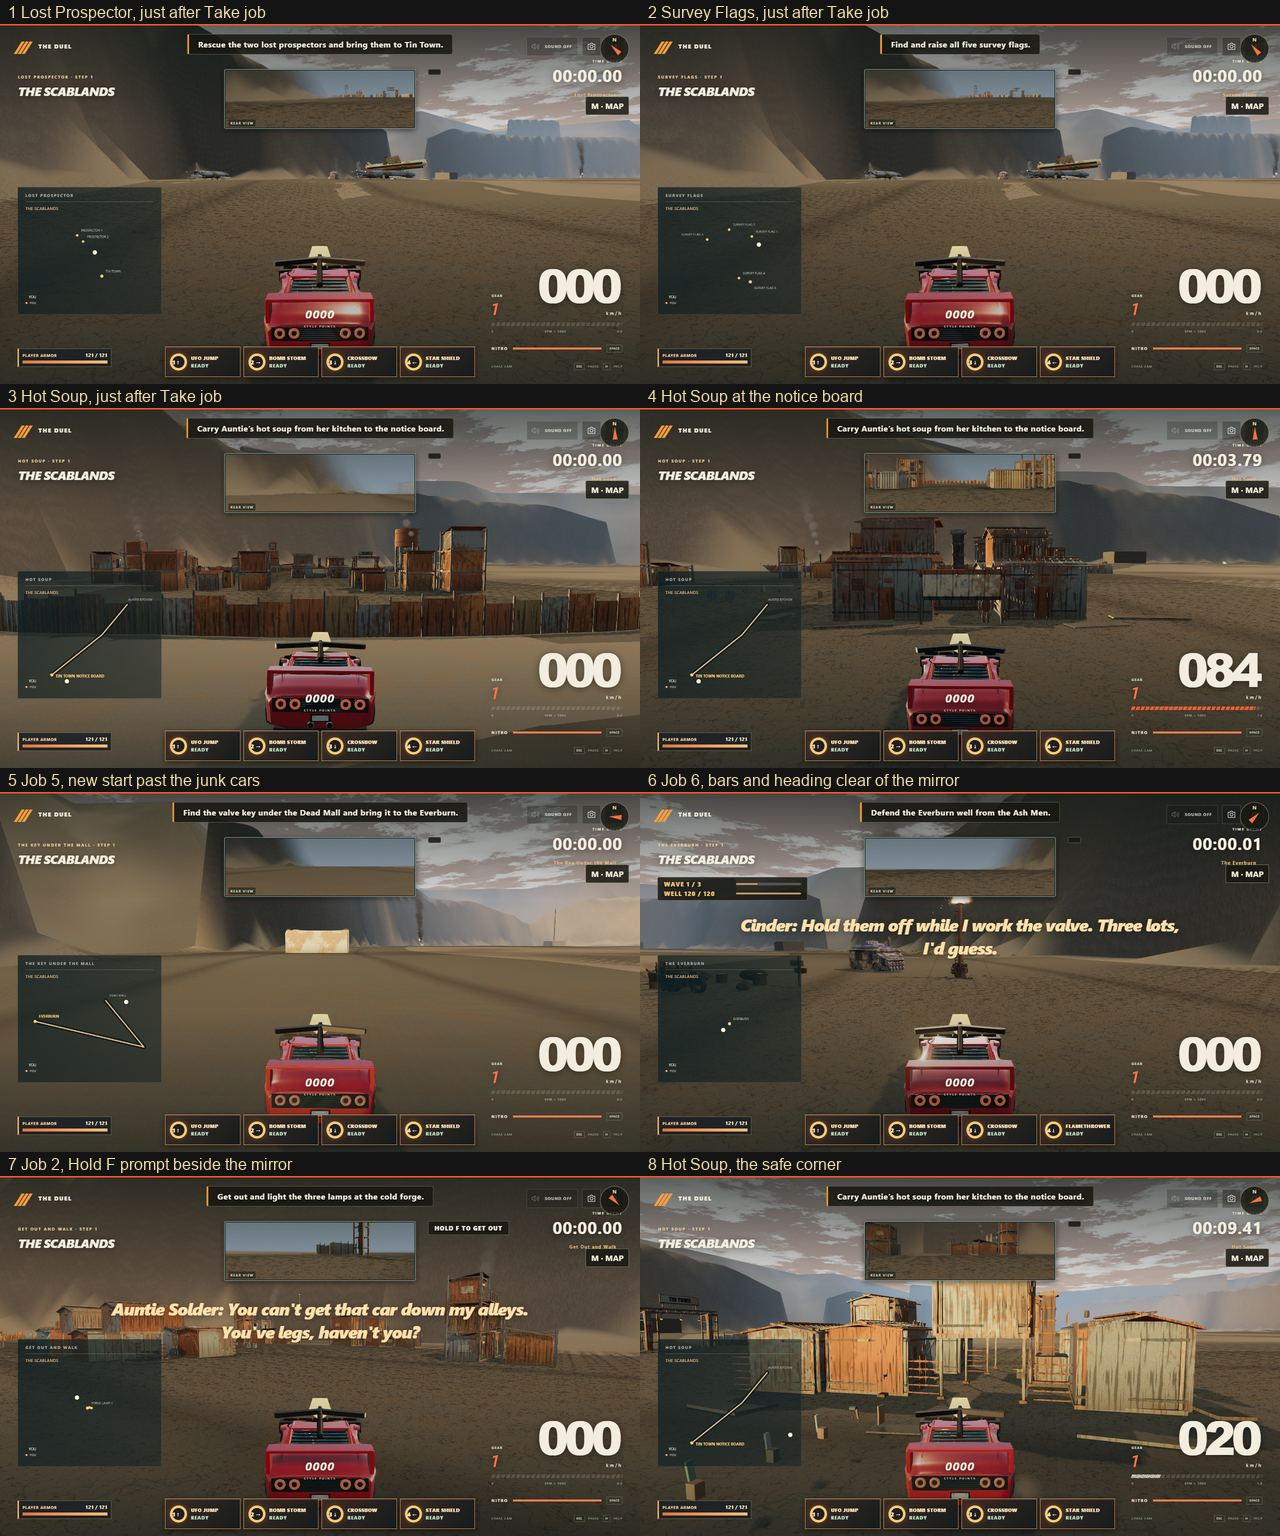
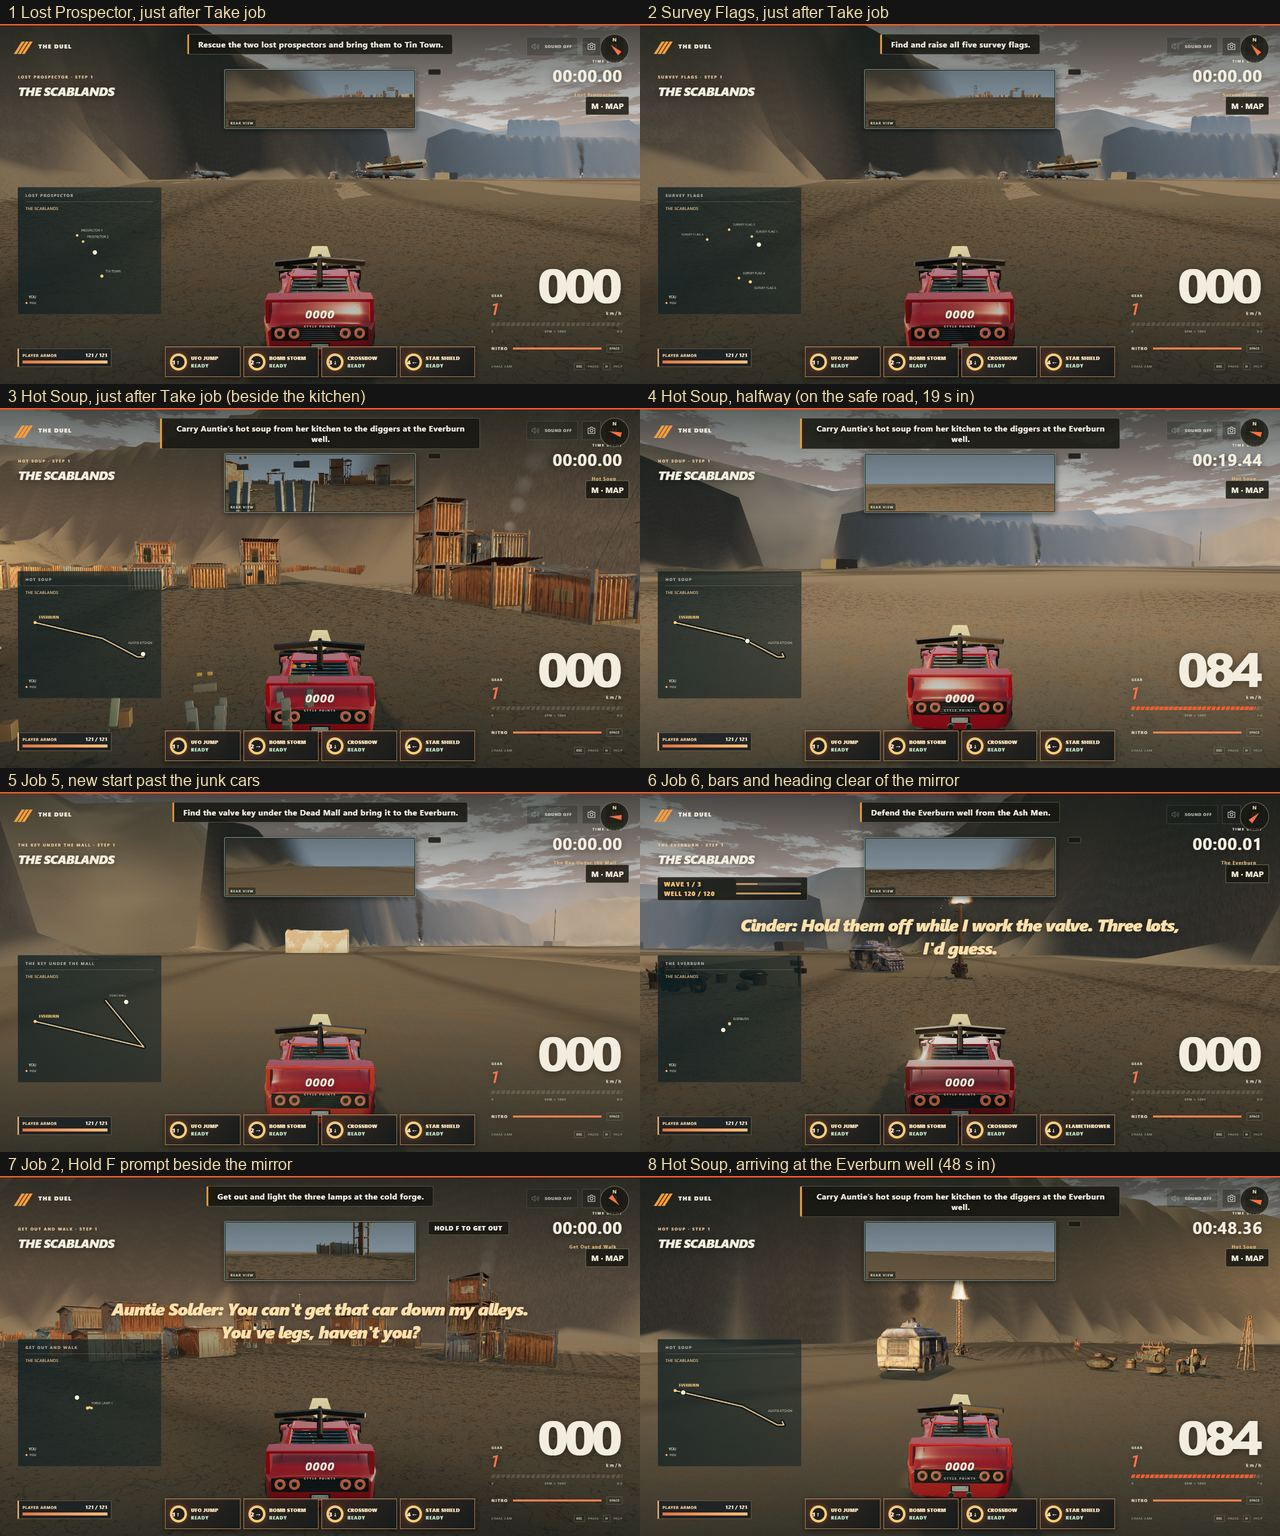
Hot Soup becomes a real delivery: Auntie's kitchen to the diggers at the Everburn well
Hot Soup took 4 seconds and paid the full amount. It now carries the soup 1,148 m
from beside the kitchen, round Tin Town's south side and by the safe road, to the
Everburn well (about 50 s). New start, safe points, objective and board note; the
maps name the road from AUNTIE KITCHEN to EVERBURN. The start check, the map test,
the easy driver (safe points for Hot Soup only) and the side-jobs scenario follow.
Round-8 sheet pictures 3, 4 and 8 and its review are replaced. Changed assertions
are listed in docs/changes/EVERBURN-PLAY-FIXES.md; replay fingerprints unchanged.

Changed region(s): [[0.0, 0.25, 1.0, 0.5], [0.5, 0.75, 1.0, 1.0]]

diff --git a/src/world/jobs/everburn.js b/src/world/jobs/everburn.js
@@ -146,12 +146,14 @@ export const EVERBURN_SIDE_JOBS = Object.freeze([
       .map(flag=>Object.freeze({...flag})), carStart:carStart(543, 192, place('survey-flag-1',450,300)), reward:'scrap'})]}),
   Object.freeze({id:'everburn-hot-soup', name:'Hot Soup', kind:'delivery',
     unlockAfter:'everburn-get-out-and-walk', easy:Object.freeze({crashLimit:10, markerRadius:8}),
-    steps:[step('carry',{what:'Carry Auntie’s hot soup from her kitchen to the notice board.', load:'hot-soup', origin:place('auntie-kitchen',615,4,4),
-      destination:place('tin-town-notice-board',600,-10,8), safePoints:path(place('town-safe-corner',610,-2,6)),
-      // The car starts on open ground 90 m south of the town, facing the notice board, which stands inside the town's own box and is reached
-      // from the south side: the straight way runs through the gap between the two southern shack clusters and stops 4.5 m short of the box.
-      carStart:carStart(603, -100, place('tin-town-notice-board',600,-10,8)),
-      radius:8, crashLimit:10, spillLineId:'story.ember.auntie-solder.12', reward:'scrap'})]}),
+    // A real delivery across the Scablands (go-live, 13 November 2026): Auntie's soup goes from her kitchen at the east edge of Tin Town to the
+    // diggers at the Everburn well, 1,148 m by the marked way, which goes round the town's south side and then by the safe road. No part of it
+    // comes within 6 m of a solid (the well's own box at the very end excepted). A spill sends the car back to the last safe point it passed.
+    steps:[step('carry',{what:'Carry Auntie’s hot soup from her kitchen to the diggers at the Everburn well.', load:'hot-soup', origin:place('auntie-kitchen',615,4,4),
+      destination:well, safePoints:path(place('town-safe-corner',632,-30,6), place('south-road',570,-30,10), safeRoad),
+      // The car starts on open ground beside the kitchen, outside the town's solid, facing the first safe point.
+      carStart:carStart(624, -2, place('town-safe-corner',632,-30,6)),
+      radius:18, crashLimit:10, spillLineId:'story.ember.auntie-solder.12', reward:'scrap'})]}),
 ]);
 
 // The notice board's own name for a side job ('hot-soup') and its definition's id ('everburn-hot-soup').

diff --git a/src/story/ember-road.js b/src/story/ember-road.js
@@ -17,7 +17,7 @@ const JOB_NOTES = Object.freeze([
 const SIDE_JOBS = Object.freeze([
   {id: 'lost-prospector', name: 'Lost Prospector', kind: 'Rescue', note: 'Find two stranded people near the Boneyard and bring them home.'},
   {id: 'survey-flags', name: 'Survey Flags', kind: 'Explore', note: 'Find five old survey flags. One is up on the Ridge.'},
-  {id: 'hot-soup', name: 'Hot Soup', kind: 'Delivery', note: 'Carry Auntie Solder’s soup across town without spilling it.'},
+  {id: 'hot-soup', name: 'Hot Soup', kind: 'Delivery', note: 'Carry Auntie Solder’s soup to the diggers at the Everburn well without spilling it.'},
 ]);
 
 // RUN-GAS: how things stand with the Ash Men, one sentence for each word of the feud (docs/board/cards/RUN-GAS.md).

diff --git a/docs/changes/EVERBURN-PLAY-FIXES.md b/docs/changes/EVERBURN-PLAY-FIXES.md
@@ -151,7 +151,7 @@ two gas runs and the battle in fresh pages 8.3, 8.5 and 8.3. The Scablands art w
 
 - `src/screen-router.js`: the button calls `app.everburnSideJob(key)`, beside `emberStep` and `emberRun`; TRY AGAIN on a notice-board job's result starts it again by its board name.
 - `src/app.js`: `everburnSideJob(key)` and `_sideJobOpen(job)`. `startArenaEvent` accepts exactly the three definitions the board hands over (checked by identity), and only once the note is read and the second story job is won. Anything that is neither one of the six, a gas run nor one of these three is still refused.
-- `src/world/jobs/everburn.js`: each side job's step names its car's start (`carStart`), so that it starts in the open like the six: Lost Prospector and Survey Flags at (543, 192) facing the first goal; Hot Soup at (603, -100), 90 m south of Tin Town facing the notice board, which stands inside the town's own box and is reached from the south side (the straight way goes through the gap between the two southern shack groups and stops 4.5 m short of the box). `sideJobKey` and `sideJobOf` map the board's names to the definitions.
+- `src/world/jobs/everburn.js`: each side job's step names its car's start (`carStart`), so that it starts in the open like the six: Lost Prospector and Survey Flags at (543, 192) facing the first goal; Hot Soup beside the kitchen (see "Hot Soup becomes a real delivery" below). `sideJobKey` and `sideJobOf` map the board's names to the definitions.
 - `src/screen-arena.js`: a notice-board job's result has no NEXT JOB; it ends at BACK TO THE YARD, with the scrap line, and TRY AGAIN if it was lost.
 - `src/route-map.js`: a rescue's people and home and an exploration's finds are drawn as the job's own places on the small and big maps (they were not drawn at all; the panel said "CURRENT POSITION" twice, over itself).
 - The save is unchanged in shape. A finished side job pays the one world-job amount every finished world job pays (80 scrap, 96 on Medium) and adds its run id to `wasteland.settledResults`, exactly as the six do. It writes nothing under `story`. The board never shows a side job as done: it offers the job again every time (the board already listed all three whenever it was open, and no save field was added). The same job pays again each time it is taken.
@@ -162,9 +162,9 @@ Played in the real game by script on Medium, from the board's button through the
 | --- | --- | --- | --- | --- |
 | Lost Prospector | yes | yes | 51.9 s | SCRAP EARNED +96 |
 | Survey Flags | yes | yes | 69.6 s | SCRAP EARNED +96 |
-| Hot Soup | yes | yes | 4.2 s | SCRAP EARNED +96 |
+| Hot Soup | yes | yes | 49.5 s (it was 4.2 s before the fix below) | SCRAP EARNED +96 |
 
-Hot Soup's end spot was driven to by the finished job (the car came up on the south side, 14 m short of the board at 4.0 s, and the job ended at 4.2 s). Its safe corner (610, -2) was driven to on purpose in a second run: the car arrived 0.02 m off and stopped on it. The story save was identical before and after each job, and the board offered all three again afterwards. The 90-minute limit that would have hidden the board behind a switch `ember-side-jobs` was not reached, and that switch was not made.
+The story save was identical before and after each job, and the board offered all three again afterwards. The 90-minute limit that would have hidden the board behind a switch `ember-side-jobs` was not reached, and that switch was not made.
 
 ### B. Job 5's start moved past the junk cars
 
@@ -227,6 +227,27 @@ The Story Wall's three "Take job" buttons that did nothing (replaced by working 
 ### Left open
 
 - The notice-board jobs repeat for ever and pay the one world-job amount (96 scrap on Medium) each time, with no tick: that follows the board as it was (it listed all three whenever it was open) and the save has no field for them. If the board should show a job done or pay once, that is a design call and a new save field.
-- Hot Soup is short (4 s at the child-pace script's speed) and its first picture is a plank fence; Lost Prospector and Survey Flags say nothing aloud (their definitions carry no lines). All three have the plain result line.
+- Hot Soup, Lost Prospector and Survey Flags say nothing aloud at the start (their definitions carry no lines). All three have the plain result line. (Hot Soup was 4 s long with a fence in its first picture; it is now a 49 s delivery, see the section above.)
 - The junk cars stay on the road as they were; job 5's way on to the mall and the well passed them in the play, and nothing else starts within 40 m ahead of one.
 - The Hand Flamer's drawing, new story lines and the Lab are out of scope, as before.
+
+### Hot Soup becomes a real delivery (a second commit, Claude's design decision after the review)
+
+Hot Soup took 4 seconds, paid 96 scrap and was offered again without limit. It is now a delivery across the Scablands: Auntie's soup goes from her kitchen in Tin Town to the diggers at the Everburn well.
+
+- `src/world/jobs/everburn.js`: origin stays `auntie-kitchen` (615, 4); the destination is the existing `well` place (-424, 304), radius 18 (the step's `radius` is 18); the objective reads "Carry Auntie's hot soup from her kitchen to the diggers at the Everburn well."; `load`, `crashLimit` 10, `easy`, `spillLineId` and `reward` are as they were. Safe points: (632, -30), (570, -30) and the existing `safeRoad` (230, 150). The marked way is 1,148 m: south of the kitchen, west along the town's south side, then across the flats by the safe road to the well. It never comes within 6 m of any solid or of the drawn town and fence (8.6 m at the tightest, except the first 15 m beside the kitchen, which stands at the drawn town's edge, and the well's own 18 m ring at the end).
+- Start: (624, -2), open ground 9 m east of the kitchen, outside the town's solid, facing the first safe point; 8.6 m clear of solids, the camera behind it 6.2 m clear, no junk car within 40 m ahead.
+- `src/story/ember-road.js`: the board's note reads "Carry Auntie Solder’s soup to the diggers at the Everburn well without spilling it."
+- The small and the big map draw the road from AUNTIE KITCHEN to EVERBURN (by the same road code as every other carry job).
+- Played in the real game on Medium from the board's button to the results screen: finished in **49.5 s** (the child-pace script goes at most 52 mph, so a slower child takes longer), SCRAP EARNED +96, story save unchanged, BACK TO THE YARD, no next job. First frame 7.6 s after the button in headless Chrome.
+- **Driving it badly, and what was found.** The spill rule reads `state.lastCrashSize`, and nothing in the game sets it, so no crash can spill the soup (job 1's ember pot has the same rule and the same gap). Driving at 75 mph into the southern shack group only stopped the car. When the game was told of a large crash by hand (`lastCrashSize` set to 20), the rule worked as written: the spill event fired, Auntie said "That was my good soup! Come back. There is more in the pot, and less in my patience.", the progress along the way was kept and the job went on; the job does not fail on a spill, it restarts its step. TRY AGAIN after a lost or left job is proved at App level for all three jobs (`test-ember-side-jobs`, 136 checks, each job taken again after failing or leaving, now at Hot Soup's new start); in the browser, leaving from the pause screen ends the job but leaves the pause screen up (BACK TO THE YARD again goes to the yard), so a results screen with TRY AGAIN was not reached by that way. Both gaps are older than this change and were not touched: connecting real crashes to the rule is a balance call that would also change job 1.
+
+Changed assertions for this change (each for Claude's review; nothing is loosened):
+
+1. `tools/test-scablands-job-map.mjs`: Hot Soup's map said the road has 3 points and ends at TIN TOWN NOTICE BOARD; it says 5 points ending at EVERBURN (start AUNTIE KITCHEN as before). Why: the job now ends at the well. Deliberate.
+2. `tools/test-everburn-play-start.mjs`: the comment on the Tin Town solid no longer names the notice board as a goal inside it (the existing check for a goal inside the solid simply has nothing to test for Hot Soup now); no assertion changed. New checks (349 became 354): Hot Soup ends at the well with radius 18, its marked way keeps 6 m from every solid, it is over 1,000 m long, and it starts beside the kitchen facing the first safe point. The start check, camera clearance and "no junk car within 40 m ahead" apply to its new start as to the others.
+3. `tools/scenarios/everburn-side-jobs.mjs`: Hot Soup's expected start (603, -100) became (624, -2).
+4. `tools/test-everburn-easy.mjs`, the child-pace driver: for Hot Soup only it now drives to the safe points in turn (it used to drive straight at the goal), because the town stands between the kitchen and the well. Every other job is driven as before. The assertion (8 of 10 finishes) is as it was; Hot Soup finishes 10 of 10, and all nine jobs, both roads at every feud word and the battle pass as before.
+5. `tools/test-ember-side-jobs.mjs` needed no change (it reads each job's start from its definition).
+
+Checks for this change, once: `test-ember-side-jobs` 136, `test-everburn-play-start` 354, `test-scablands-job-map` 42, `test-everburn-easy` (all nine jobs 10 of 10), the lane tier (124 of 124 suites passed; `test-replays` 297 checks and `test-combat-replays` 12, so the replay fingerprints did not move), `npm run build` (passed), and the browser scenarios `everburn-side-jobs`, `everburn-play` and `everburn` (3 of 3 passed, 0 warnings, 0 errors); the whole tier was not run again (only a job definition, a board note and tests changed). Pictures 3, 4 and 8 of `round-8.jpg` are replaced (Hot Soup after Take job, halfway, arriving at the well) and `round-8-review.md` is corrected.

diff --git a/docs/board/looks/everburn-play/round-8-review.md b/docs/board/looks/everburn-play/round-8-review.md
@@ -7,17 +7,17 @@ Taken 13 November 2026 on the go-live branch by a Sonnet helper for Claude. The 
 
 1. **Lost Prospector, just after Take job.** The car stands on open ground by the Boneyard at (543, 192), facing the first prospector. The small map now draws the two prospectors and Tin Town (it said only "CURRENT POSITION", twice, over itself, before).
 2. **Survey Flags, just after Take job.** Same start. The small map draws the five flags by name.
-3. **Hot Soup, just after Take job.** The car stands 90 m south of Tin Town facing the notice board. The map draws the road from Auntie's kitchen by the safe corner to the board. A plank fence fills most of the first picture: the straight way to the board runs through a 13 m gap between the two southern shack groups, and the gap only shows as the car comes nearer.
-4. **Hot Soup at the notice board**, 14 m short of it, 3.8 s in. The car comes up on the south side of the town, which is the only side the board can be reached from.
+3. **Hot Soup, just after Take job.** The car stands on open ground 9 m east of Auntie's kitchen, at the town's edge, facing the first safe point to the south. The objective bar reads "Carry Auntie's hot soup from her kitchen to the diggers at the Everburn well." and the small map draws the road from AUNTIE KITCHEN to EVERBURN. Plank debris from the shack groups lies round the car.
+4. **Hot Soup halfway**, on the safe road 19 s in. The road round the town's south side and then across the flats is 1,148 m.
 5. **Job 5, new start.** The car stands on the road 124 m short of the Dead Mall (the tan block ahead), past the pair of junk cars that lie on the road. They are behind it now, not 9 m in front.
 6. **Job 6, the first second.** The job's heading, then the wave and well bars under it on the left, the mirror clear, Cinder's caption under the mirror. The bars used to be drawn on the mirror.
 7. **Job 2, the first second.** "HOLD F TO GET OUT" stands to the right of the mirror, level with its top. It used to straddle the mirror's top edge.
-8. **Hot Soup, the safe corner** at (610, -2), half a metre outside the town's solid, 9.4 s in. The car was driven there on purpose and stopped on the spot (0.02 m off).
+8. **Hot Soup arriving at the Everburn well**, 48 s in: the derrick and flame, a parked truck and the diggers' camp ahead, the small map's dot at the end of the road.
 
 ## Honest notes
 
-- Hot Soup is short: the child-pace script covers the 82 m in about 4 seconds and the job pays the same 96 scrap on Medium as the others. A slower child will take longer. The soup is only lost on a hard crash (ten allowed), and nothing on the way is hard to hit except the town's own south edge, which the straight way misses by 4.5 m.
-- Hot Soup's first picture is a fence, not a road. If it confuses a child, the start can move 10 m east or west and look past the gap; it was not changed for a look alone.
+- Hot Soup takes 49 s clean on Medium with the child-pace script (52 mph on the open flats, slower at each safe point), and pays the same 96 scrap as the others. It is now a real drive across the Scablands, and it is on the board for ever like the other two.
+- The soup cannot be spilled by driving badly. The job's spill rule reads a crash size from the game (`state.lastCrashSize`), and nothing in the game ever sets it, so a hard crash into a shack group only stops the car. (Job 1's pot has the same rule and the same gap.) When the game was told of a large crash by hand, the rule worked as written: Auntie said "That was my good soup! Come back..." and the progress along the marked way was kept. The job did not fail. Connecting real crashes to the rule is a design and balance call for Job 1 as well, so it was left alone.
 - The three notice-board jobs never get a tick: the board offers them again whenever the player is in the yard, and each pays the one world-job amount every time (96 scrap on Medium). The save has no field for them, and none was added. If the board should show them done, or pay once, that is a design call and a new save field.
-- Lost Prospector and Survey Flags have no spoken lines (the definitions carry none), so their captions stay empty: the objective bar and the map carry them. No line was written.
+- Hot Soup, Lost Prospector and Survey Flags have no opening lines (the definitions carry none), so their captions stay empty: the objective bar and the map carry them. No line was written. Leaving a job from the pause screen (BACK TO THE YARD) leaves the pause screen up with the job already ended; pressing BACK TO THE YARD again goes to the yard. That is true of every world job and was not changed.
 - The job's own result line is the plain one ("Lost Prospector is done. You made it back to the yard.").
